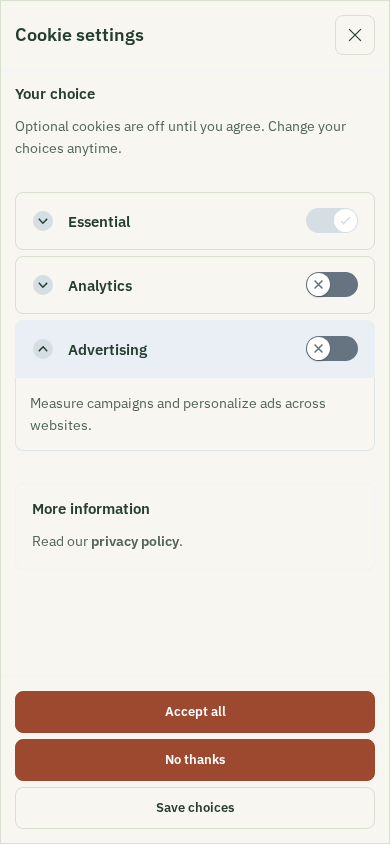
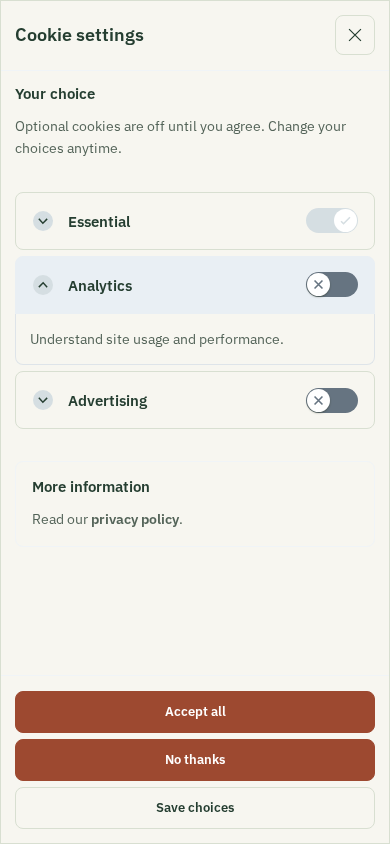
fix(website): shorten analytics consent description (#52)

diff --git a/packages/website/src/lib/cookie-consent.ts b/packages/website/src/lib/cookie-consent.ts
@@ -178,8 +178,7 @@ export function initializeCookieConsent(
               {
                 title: "Analytics",
                 linkedCategory: "analytics",
-                description:
-                  "Understand site usage and performance, including masked session recordings.",
+                description: "Understand site usage and performance.",
               },
               {
                 title: "Advertising",

diff --git a/documentation/design/screenshots/cookie-consent/README.md b/documentation/design/screenshots/cookie-consent/README.md
@@ -9,6 +9,10 @@ unchanged; no customer data or new fixture images are included.
 - [Mobile notice](mobile.png)
 - [Mobile preferences](preferences.png)
 
+The preferences capture reflects the owner's shorter Analytics description:
+"Understand site usage and performance." It was refreshed from the local
+production build on 22 October 2026, at 390 × 844 in Chromium.
+
 The compact notice has equally accessible Accept all and No thanks actions.
 Settings separates analytics from advertising. Optional collection starts only
 after consent, respects browser privacy signals and fails closed when storage is
